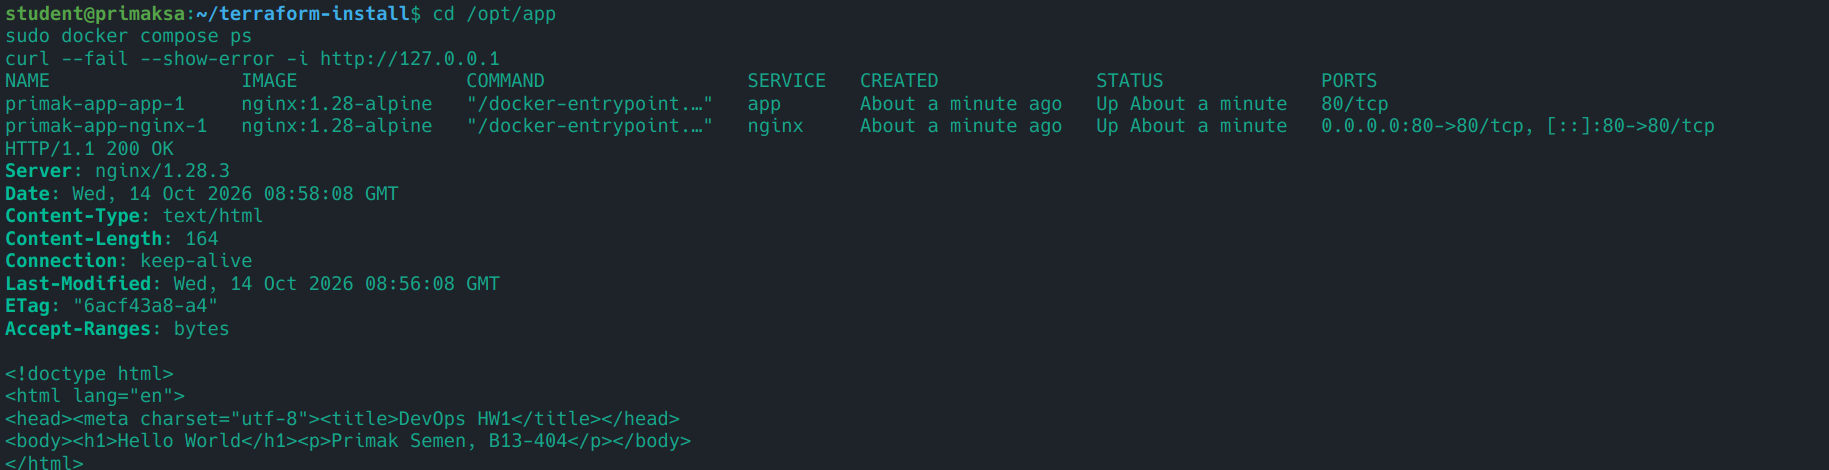
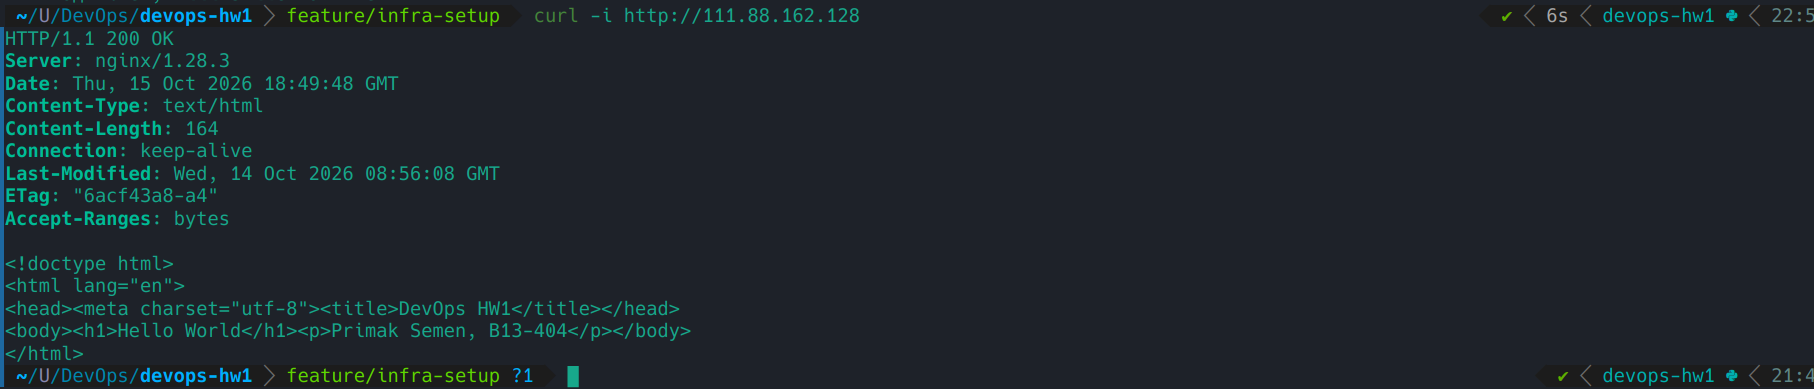
Final README upd, add VM monitoring screenshot

diff --git a/docs/self-review.md b/docs/self-review.md
@@ -14,13 +14,16 @@
 - [x] Ansible syntax-check.
 - [x] Первый и второй запуск setup_host.yml; второй changed=0.
 - [x] Terraform init, validate, plan, apply, state list.
-- [ ] Подтверждён успешный Terraform fmt -check.
+- [x] Terraform fmt -check: код 0.
+- [x] SHA256 архива Terraform проверен на VM: OK.
 - [x] nginx :8081 возвращает 200 OK; сеть и том подключены.
-- [x] Compose :80 возвращает Hello World; оба сервиса работают.
+- [x] Compose :80 возвращает Hello World, в том числе на внешний curl; оба сервиса работают.
 - [x] monitor.sh проверен на VM: активный и отсутствующий сервис.
 - [x] monitor.sh проверен локально: отсутствие syslog (код 2), выгрузка journald (код 0).
 - [x] Скриншоты Ansible и Terraform добавлены в README.
 - [x] Скриншоты Compose и локального мониторинга добавлены в README.
-- [ ] Скриншот мониторинга на VM добавлен в README.
+- [x] Скриншот мониторинга на VM добавлен в README.
 - [x] Файл .terraform.lock.hcl добавлен в Git после init.
-- [ ] PR/MR просмотрен и слит; тег v0.1.0 поставлен после слияния.
+
+Ревью и слияние выполняются в Pull Request `feature/infra-setup` → `main`;
+тег `v0.1.0` ставится на `main` после слияния.
